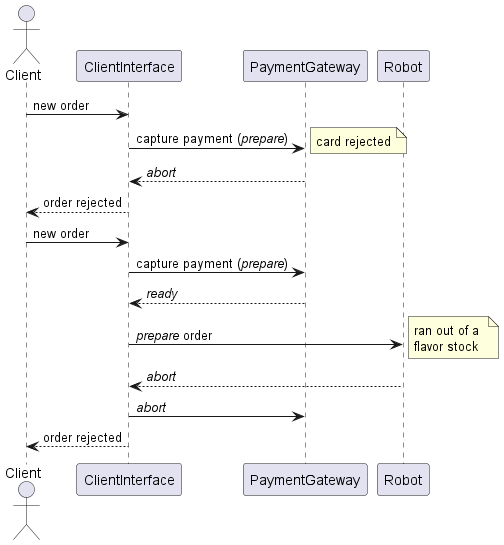
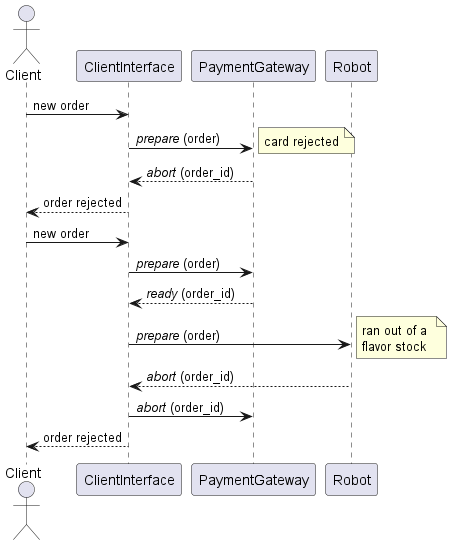
actualizo modelo de dominio, supuestos y diagramas de secuencia

diff --git a/README.md b/README.md
@@ -77,7 +77,7 @@ Tienen como estado interno el contenedor que están empleando, en caso de que es
 Será una aplicación simple que _loguea_, tal como indica el enunciado, en un archivo. Se tendrá una sola instancia de la misma que se encargará de recibir mensajes _prepare_  del coordinador (que se encuentra en **Interfaces de Clientes**), preguntando si se puede capturar el pago (la tarjeta puede fallar con una probabilidad aleatoria). Su respuesta será _ready_ o _abort_ dependiendo el caso. Luego, si se logra entregar el pedido correctamente, se recibirá un mensaje _commit_ y se realizará el cobro efectivo.
 
 ## Comunicación entre procesos
-Para asegurar una comunicación confiable entre los procesos usando sockets UDP, cada mensaje enviado esperará una respuesta del receptor. En caso de no recibir respuesta en un tiempo determinado, se considerará que se perdió el paquete y se reenviará el mensaje. Se utilizará un protocolo de comunicación simple, donde cada mensaje tendrá un formato específico.
+Para asegurar una comunicación confiable entre los procesos usando sockets UDP, cada mensaje enviado esperará una respuesta del receptor. En caso de no recibir respuesta en un tiempo determinado, se considerará que se perdió el paquete y se reenviará el mensaje. Se utilizarán protocolos de comunicación simples, donde cada mensaje tendrá un formato específico.
 
 A continuación se presentan diagramas de secuencia que muestran el intercambio de mensajes entre las entidades en distintos escenarios:
 
@@ -147,20 +147,18 @@ El payload es un tipo del enum `Response` serializado en formato _JSON_ que pued
 
 - Cada **pedido** posee los siguientes atributos:
   - **id**: clave numérica única para cada uno.
-  - **cliente**: datos de quien lo realiza.
-  - **items**: lista de productos que lo conforman.
-- Cada **cliente** cuenta con los siguientes atributos:
-  - **id**: clave numérica única para cada uno.
+  - **id del cliente**: clave numérica única del cliente que lo realiza.
   - **tarjeta de crédito**: los 16 números de la misma en formato string.
-- Cada **producto** tiene los siguientes atributos:
-  - **tipo**: puede ser vasito, cucurucho, 1/4 kg, 1/2 kg o 1 kg. 
+  - **ítems**: lista de productos que lo conforman.  
+- Cada **ítem** tiene los siguientes atributos:
+  - **contenedor**: puede ser vasito, cucurucho, 1/4 kg, 1/2 kg o 1 kg. 
   - **cantidad**: número de unidades del mismo.
   - **sabores**: lista de sabores que pueden ser chocolate, frutilla, vainilla, menta y limón. El máximo de sabores para cualquier producto es 3.
 
 ## Supuestos
 - Se define la cantidad de instancias de interfaces de clientes en 3.
-- La cantidad de instancias de robots será 5.
+- La cantidad de instancias de robots es 5.
 - La aplicación del Gateway de Pagos nunca se cae.
-- En el caso de que un robot esté preparando un helado y no haya más stock del gusto a servir, se desecha todo lo servido previamente y el pedido queda cancelado.
+- En el caso de que un robot esté preparando un pedido y no haya más stock del gusto a servir, se desecha todo lo servido previamente y el pedido queda cancelado.
 - Los puertos de las pantallas y los robots son conocidos. 
-
+- El pago se captura aleatoriamente con una probabilidad de 0.9.
